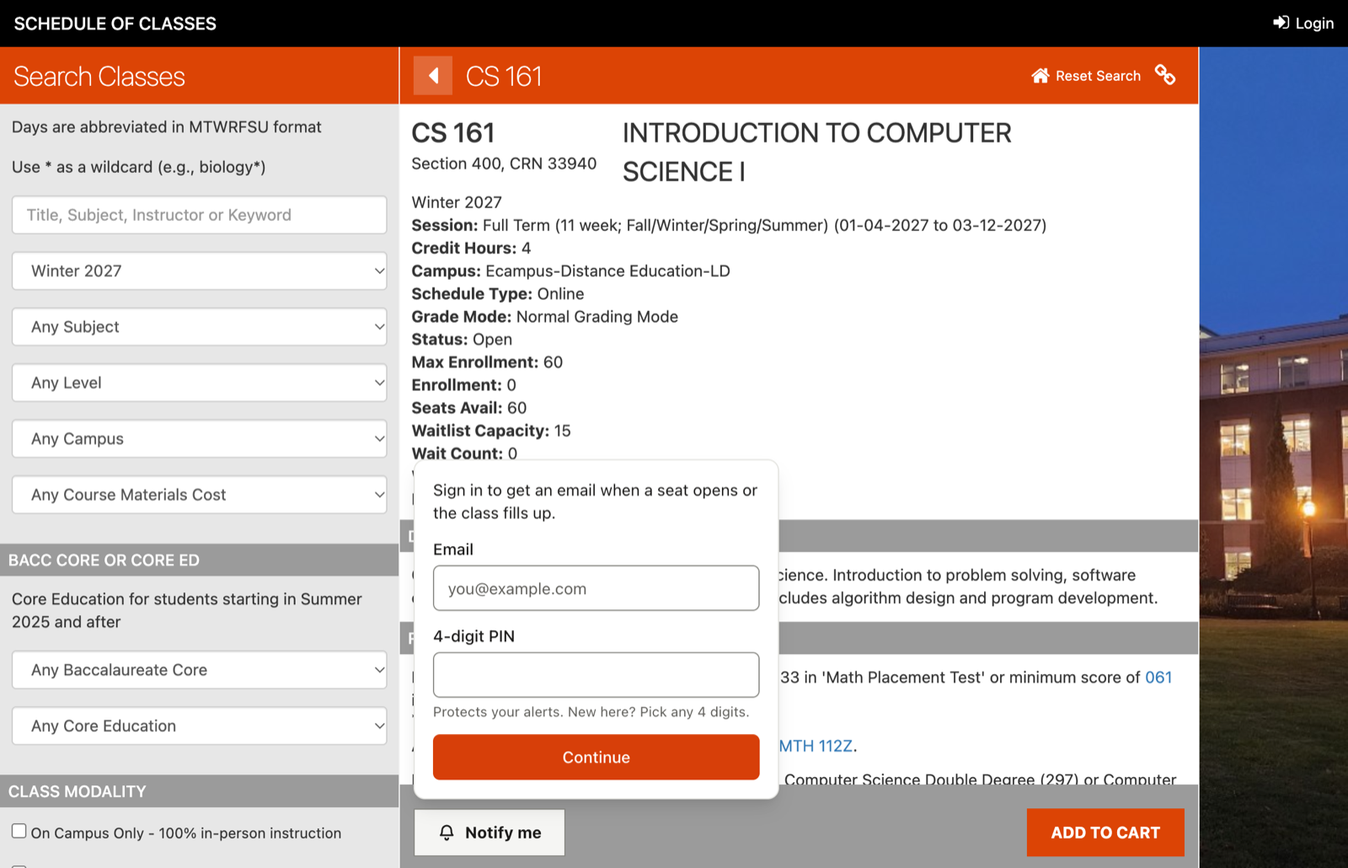
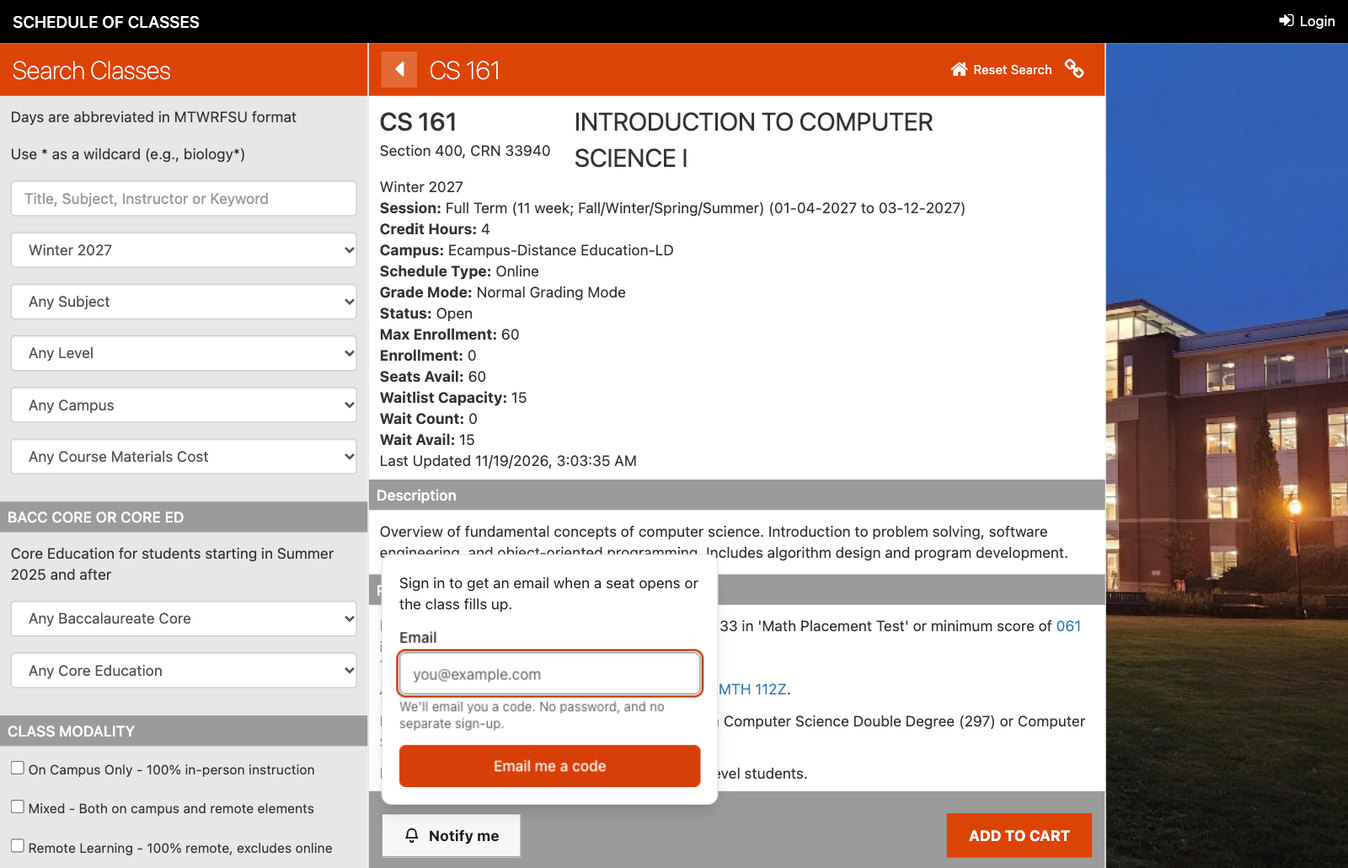
README and privacy policy for the new server and sign-in
README: the extension now talks to apps/server (the old backend is named
once, as what this replaced); sign-in by emailed code; what storage holds
now and what happens to an install updated in place; how to build and try
the extension against a local server, including Chrome's Local Network
Access prompt on the class page; the project map, the Effect notes and
"Adding a server call" brought up to date. "Each term" is gone: the
server decides which terms take alerts.

Privacy policy: what the browser and the server store now (no PIN; codes
and tokens only as hashes), Cloudflare as the host and email sender, what
the server logs, what the daily job removes, and "Delete my account".

The popup and class-page sign-in screenshots show the new extension.

Changed region(s): [[0.0, 0.0, 1.0, 1.0]]

diff --git a/README.md b/README.md
@@ -8,9 +8,11 @@ On [classes.oregonstate.edu](https://classes.oregonstate.edu), open a class and 
 | --- | --- |
 | <img src="docs/screenshots/class-page-watching.png" alt="A class panel with the Watching button and a Stop alerts link" width="560"> | <img src="docs/screenshots/popup.png" alt="The popup listing three watched classes, each with a Stop button" width="260"> |
 
-Alerts cover the classes of **one term at a time** (right now Winter 2027), because that is what the backend watches. On a class of any other term the page shows a short note instead of the button. See [Each term](#each-term).
+"Notify me" is on every section with an ADD TO CART button, in any term. Whether a class takes alerts is up to the server: its term must be open for registration, and the class's add deadline must not have passed (see `apps/server/src/termRule.ts`). When a class does not, the page says why, in the server's words.
 
-We have a backend server running on a private VPS to track course vacancies and alert students. The backend code can be found [here](https://github.com/aj-arts/GetTheDamClass-Backend).
+There are no passwords. To sign in (or sign up, or get back in after forgetting everything), type your email and then the six-digit code the server emails you.
+
+The extension talks to its own server, `apps/server` in this repository: a [Cloudflare Worker](https://developers.cloudflare.com/workers/) with a D1 database, which checks the watched classes every minute and sends the emails. It replaces the earlier backend ([GetTheDamClass-Backend](https://github.com/aj-arts/GetTheDamClass-Backend)), which ran on a private server and signed in with a PIN. The new server is not deployed yet.
 
 ## Adding the Chrome Extension
 
@@ -21,7 +23,7 @@ We have a backend server running on a private VPS to track course vacancies and 
 5. Click on the "Load unpacked" button and select the extracted folder.
 6. The extension should now be added to Chrome and ready to use.
 
-**Updating from an earlier version** (including version 1): extract the new zip over the old folder and press the reload button on the extension's card. That keeps you signed in. If you extract to a new folder instead, Chrome treats it as a different extension: remove the old GetTheDamClass first (otherwise the class page gets two buttons) and sign in again.
+**Updating from an earlier version**: extract the new zip over the old folder and press the reload button on the extension's card. Versions that signed in with a PIN used the old backend, so you are signed out once (your email is filled in; ask for a code), and alerts made with them are not carried over: press "Notify me" on those classes again. If you extract to a new folder instead, Chrome treats it as a different extension: remove the old GetTheDamClass first (otherwise the class page gets two buttons).
 
 We will hopefully have it released on the Chrome Web Store soon!
 
@@ -42,15 +44,16 @@ Run these in `apps/extension/`. `pnpm typecheck`, `pnpm test` and `pnpm build` a
 
 | Command | What it does |
 | --- | --- |
-| `pnpm dev` | Development build into `.output/chrome-mv3-dev` that rebuilds and reloads as you edit. Load that folder once with "Load unpacked". (It asks for extra permissions that WXT needs for reloading; the real build does not.) |
-| `pnpm build` | Production build into `.output/chrome-mv3`. |
+| `pnpm dev` | Development build into `.output/chrome-mv3-dev` that rebuilds and reloads as you edit, talking to the server on your computer (`http://localhost:5173`). Load that folder once with "Load unpacked". (It asks for extra permissions that WXT needs for reloading; the real build does not.) |
+| `pnpm build` | Production build into `.output/chrome-mv3`, talking to the real server (`https://api.getthedamclass.ajinkya.dev`). |
+| `pnpm build:local` | The same build, but talking to the server on your computer, into `.output/chrome-mv3-local-server`. See [Trying the extension against a local server](#trying-the-extension-against-a-local-server). |
 | `pnpm zip` | Builds, then packs the result into a zip in `.output/` for a release or the Chrome Web Store. |
 | `pnpm typecheck` | Checks the TypeScript types. |
 | `pnpm test` | Runs the unit tests. |
 
 ### Running the server
 
-`apps/server` is the Cloudflare Worker that will replace the backend: sign-in by emailed code; starting, listing and stopping alerts; a check every minute that emails each watcher when a seat opens or the class fills again; and a daily cleanup. The extension does not use it yet.
+`apps/server` is the Cloudflare Worker the extension talks to: sign-in by emailed code; starting, listing and stopping alerts; a check every minute that emails each watcher when a seat opens or the class fills again; and a daily cleanup.
 
 ```sh
 cd apps/server
@@ -82,11 +85,24 @@ Each answers `ok` or `exception`; what they log (one line per run, with its coun
 
 To start over, delete `apps/server/.cloudflare/state`; do so too after a change to the tables in `migrations/`. `pnpm typecheck`, `pnpm test` and `pnpm build` work there as they do in the extension; the tests use a SQLite database in Node and never reach the network.
 
+### Trying the extension against a local server
+
+1. Start the server: `pnpm dev` in `apps/server` (see above). Leave that terminal open; the sign-in codes appear in it.
+2. Build the extension for it: `pnpm build:local` in `apps/extension`. (Or run `pnpm dev` there, which also talks to the local server and rebuilds as you edit.)
+3. In Chrome, open `chrome://extensions`, enable "Developer mode", press "Load unpacked" and pick `apps/extension/.output/chrome-mv3-local-server`. Remove or turn off any other GetTheDamClass first, or the class page gets two buttons.
+4. Open a class on [classes.oregonstate.edu](https://classes.oregonstate.edu) in a term that is open for registration, and pick a section with ADD TO CART.
+5. Press **Notify me**, type any email address, press **Email me a code**, and copy the six digits from the server's terminal into the form. The button turns into **Watching**.
+6. Open the extension's popup: the class is listed with its term. Press **Stop**, then **Sign out**.
+
+Chrome treats `http://localhost` as secure, so a local server over plain HTTP is not blocked as mixed content. But since Chrome 142, a public website may only reach your own computer with your permission ([Local Network Access](https://developer.chrome.com/blog/local-network-access)). The popup and the sign-in form are pages of the extension and are not affected. "Notify me" and "Stop alerts" are: the content script's requests count as coming from https://classes.oregonstate.edu. So the first time you press one of them, Chrome asks whether classes.oregonstate.edu may access devices on your local network (or apps on this device); choose **Allow**. If you block it, or the prompt never shows (Chrome in automation does not show it), the button says "Couldn't reach the server", and the page's console shows *"Permission was denied for this request to access the `loopback` address space"*. Allow it again in the site's settings: the icon left of the address bar, or `chrome://settings/content/siteDetails?site=https%3A%2F%2Fclasses.oregonstate.edu`. A normal build is not affected: its server is on the internet.
+
+Each "Notify me" on a class nobody else watches makes the local server ask the university's class system about it four times (the term list, the title, the seats and the dates). That system is shared by every student, so keep such tries few.
+
 ## How it is built
 
 - [WXT](https://wxt.dev) builds the extension and generates `manifest.json` (from `apps/extension/wxt.config.ts` and the files in `apps/extension/entrypoints/`).
 - [React](https://react.dev) and [Tailwind CSS](https://tailwindcss.com) draw the user interface.
-- [Effect](https://effect.website) runs everything that is not drawing: talking to the backend, storage, and error handling.
+- [Effect](https://effect.website) runs everything that is not drawing: talking to the server, storage, and error handling. The API between the two is defined once, with Effect's `HttpApi`, in `packages/shared`.
 - [Vitest](https://vitest.dev) runs the tests. They sit next to the file they test (`Api.ts` → `Api.test.ts`).
 
 ## Project map
@@ -96,7 +112,8 @@ apps/extension/           The browser extension.
   entrypoints/            What the browser loads. WXT turns each folder into part of the extension.
     popup/                The window that opens from the toolbar icon.
       App.tsx             Picks the screen: signed out, or signed in with the list.
-      ClassList.tsx       The watched classes, each with its "Stop" button.
+      ClassList.tsx       The watched classes, each with its term and its "Stop" button.
+      DeleteAccount.tsx   "Delete my account", and the question it asks first.
     content/              The script added to classes.oregonstate.edu.
       index.tsx           Puts a control into every class-details panel and keeps it there.
       detailsPanel.ts     Everything we know about the page's HTML. START HERE when the
@@ -108,15 +125,16 @@ apps/extension/           The browser extension.
     Button.tsx            A button with variants and a loading state.
     Message.tsx           An inline info, success or error message.
     TextField.tsx         A text input with its label.
-    SignInForm.tsx        Email + PIN form that signs in (or signs up).
+    SignInForm.tsx        Signing in (or up), in two steps: the email, then the emailed code.
     cx.ts                 Tiny helper to join CSS class names.
   lib/                    Everything that is not user interface.
-    domain.ts             The data types (Credentials, Crn, Subscription) and every error.
-    term.ts               The one term alerts work for. Changed every term.
-    Api.ts                Service: the calls to the backend.
-    AccountStore.ts       Service: the saved email and PIN and the list of watched classes,
-                          in the browser's extension storage.
-    workflows.ts          What a user can do: signIn, signOut, subscribe, unsubscribe, listSubscriptions.
+    domain.ts             Which class an alert is for (ClassId), and the errors only the extension has.
+    termName.ts           A term's code in words: "202702" is "Winter 2027".
+    Api.ts                Service: the calls to the server, on the typed client from packages/shared.
+    AccountStore.ts       Service: the saved email and sign-in token, a code that was asked for,
+                          and the watched classes, in the browser's extension storage.
+    workflows.ts          What a user can do: requestCode, signIn, changeEmail, signOut,
+                          deleteAccount, subscribe, unsubscribe, listAlerts.
     runtime.ts            Wires the real services together so effects can run.
     react.ts              Hooks that let React components run effects.
     errorMessage.ts       The sentence shown to the user for each error.
@@ -124,7 +142,7 @@ apps/extension/           The browser extension.
   public/icons/           The extension's icons, copied into the build as they are.
   wxt.config.ts           Extension name, permissions, icons; build plugins.
   vitest.config.ts        Test setup (with vitest.setup.ts).
-apps/server/              The Cloudflare Worker that will replace the backend.
+apps/server/              The Cloudflare Worker the extension talks to.
   src/index.ts            The Worker: plugs the server and the jobs into Cloudflare's bindings.
   src/server.ts           The whole server as one layer: API handlers, unsubscribe page, CORS.
   src/signIn.ts           Sign-in codes, and the sign-in endpoints.
@@ -156,25 +174,32 @@ There is no background script. The extension only needs the `storage` permission
 
 ### How the parts stay in step
 
-The popup, the button on the class page and the sign-in frame all read and write the browser's extension storage (`apps/extension/lib/AccountStore.ts`): who is signed in, and which CRNs they are watching. Each of them follows it as it changes, so stopping an alert in the popup turns "Watching" back into "Notify me" on an open class page, and signing in anywhere signs you in everywhere.
+The popup, the button on the class page and the sign-in frame all read and write the browser's extension storage (`apps/extension/lib/AccountStore.ts`): who is signed in, which classes they are watching, and how far a sign-in has got. Each of them follows it as it changes, so stopping an alert in the popup turns "Watching" back into "Notify me" on an open class page, signing in anywhere signs you in everywhere, and a code asked for in the popup can be typed in the form on the class page.
 
-What is stored, unencrypted, until you sign out (which removes all of it):
+What is stored, unencrypted, until you sign out or delete your account (which removes all of it):
 
 | Key | Value | |
 | --- | --- | --- |
-| `email` | `"student@oregonstate.edu"` | The same two keys version 1 used, so its users stay signed in when the extension is updated in place. |
-| `pin` | `"1234"` | |
+| `email` | `"student@oregonstate.edu"` | Who is signed in. Without a `token`, the address the sign-in form starts with. |
+| `token` | `"kq3V..."` | The sign-in token the server gave this browser, sent with every request as `Authorization: Bearer`. |
+| `codeRequest` | `{ "email": "...", "sentAt": 1795075200000 }` | A code was emailed to this address at this time (milliseconds since 1970), and not used yet. |
 | `watch:202702:student@oregonstate.edu:33940` | `true` | One key per watched class, named after the term, the account and the CRN. |
 
-A watched class is a key of its own so that adding one is a single write and removing one a single delete. Nothing reads a list, changes it and writes it back, so two changes made at the same moment (in the popup and on a class page, say) cannot undo each other. And the account is part of the name so that an answer from the server that arrives after someone else signed in is saved for the account that asked, where the other never sees it. The term is part of the name so that last term's saved classes stop counting as watched when `apps/extension/lib/term.ts` moves on (the next term can reuse a CRN for a different class). That only covers what this browser saved: the server's list carries no term, so the old alerts must also be cleared in the backend (see [Each term](#each-term)).
+`codeRequest` is what lets the form survive being closed: Chrome closes the popup as soon as you click into your inbox to read the code, and when it opens again the form is at the code step for the address you typed. It counts for 15 minutes, as long as the code works, and is removed when you sign in or press "Use a different email".
 
-One known gap: if you sign out while a "Notify me" request is still waiting for the server, its answer is saved after the sign-out, leaving one `watch:` key (email and CRN, no PIN) until the next sign-out.
+A watched class is a key of its own so that adding one is a single write and removing one a single delete. Nothing reads a list, changes it and writes it back, so two changes made at the same moment (in the popup and on a class page, say) cannot undo each other. The account is part of the name so that an answer from the server that arrives after someone else signed in is saved for the account that asked, where the other never sees it. And the term is part of it because the university reuses CRNs from term to term: the same CRN in two terms is two classes, everywhere in the extension.
 
-The page trusts that saved list and does not ask the server when a class is opened. If an alert was stopped elsewhere (the Unsubscribe link in an email, another browser), the page still says "Watching" until the popup is next opened, which fetches the real list, or until "Stop alerts" is pressed, which works either way.
+When the server answers a request with `NotSignedIn` (the token was ended: the account was deleted from another browser, or the token went unused for a year), the extension removes `token` and keeps `email`, so every part of it shows the sign-in form with the address filled in.
+
+Versions that signed in with a PIN also stored a `pin` key, and `watch:` keys for alerts on the old backend. The first time any part of the extension starts after an update in place, it removes both (see `AccountStore.layer`); the email stays.
+
+One known gap: if you sign out while a "Notify me" request is still waiting for the server, its answer is saved after the sign-out, leaving one `watch:` key (term, email and CRN) until the next sign-out.
+
+The page trusts that saved list and does not ask the server when a class is opened. If an alert ended elsewhere (stopped with the link in an email or in another browser, or removed by the server's daily cleanup after the class's add deadline), the page still says "Watching" until the popup is next opened, which fetches the real list, or until "Stop alerts" is pressed, which works either way.
 
 ### Why the sign-in form on the class page is in a frame
 
-Whatever a content script draws into a web page, that page's own scripts can read, including every key typed into a field. So the email and PIN are never typed into the university's page. The popover that "Notify me" opens contains an `<iframe>` showing `signin.html`, a page of the extension itself (`apps/extension/entrypoints/signin/`). The class page cannot look inside it. `apps/extension/wxt.config.ts` lists that one page under `web_accessible_resources`, for classes.oregonstate.edu only, which is what allows it to be framed there.
+Whatever a content script draws into a web page, that page's own scripts can read, including every key typed into a field. So the email and the sign-in code are never typed into the university's page. The popover that "Notify me" opens contains an `<iframe>` showing `signin.html`, a page of the extension itself (`apps/extension/entrypoints/signin/`). The class page cannot look inside it. `apps/extension/wxt.config.ts` lists that one page under `web_accessible_resources`, for classes.oregonstate.edu only, which is what allows it to be framed there.
 
 The frame tells the page around it three things, with `window.postMessage` (`apps/extension/entrypoints/signin/messages.ts`): "close me" (Escape was pressed), "I am this tall now", and "signed in". None of them carries what was typed. "Signed in" is what makes the button carry on and set up the alert, so only the form that was actually submitted does that: signing in through the toolbar popup while a popover is open on a class page subscribes to nothing.
 
@@ -183,20 +208,6 @@ The frame tells the page around it three things, with `window.postMessage` (`app
 The button is only put on the page when the script can read three things from a class's panel: the CRN, the term, and the bar that holds ADD TO CART. If one of them cannot be found the script shows nothing, rather than a button that might sign a student up for the wrong class. So after a change to the university's markup the button simply disappears.
 
 `apps/extension/entrypoints/content/detailsPanel.ts` holds every selector, with a drawing of the page's structure at the top. Its tests run against `apps/extension/entrypoints/content/fixtures/*.html`. To refresh a fixture: open the section on classes.oregonstate.edu, and in the browser's developer tools run `copy(document.querySelector("main.panels").outerHTML)`. Paste that over the fixture and trim it the way the comment at the top of the file describes. Then run `pnpm test` and fix `detailsPanel.ts` until it passes.
-
-## Each term
-
-The backend looks up classes in one hard-coded term (`'term': '202702'` in its `app/loop.py`, three places), and its API cannot tell terms apart: it is sent a bare CRN, and the same number can be a different class in another term. The extension therefore offers alerts only for sections whose term it can read from the page and which is exactly the one named in `apps/extension/lib/term.ts`. When registration for the next term is about to open:
-
-1. In `apps/extension/lib/term.ts`, change `code` (the `srcdb` value the class search uses, for example `202703`) and `label` ("Spring 2027").
-2. Bump `version` in `apps/extension/package.json` and publish the extension (see [Releasing](#releasing)).
-3. Once the new version is out, change the term in the backend and deploy it.
-
-Do step 3 soon after step 2. The two can never switch at the same instant (browsers pick up a new version of an extension over hours or days), and while they disagree a press is looked up in the wrong term. Releasing the extension first, during the quiet days before registration opens, keeps that to a minimum.
-
-People who installed from a release zip ("Load unpacked") do not get updates automatically: until they download the new release, the page keeps telling them alerts cover the old term only. Say so in the release notes.
-
-Alerts set up for the old term stay in the backend's database, and its API does not say which term an alert belongs to. Clearing them out is a required part of step 3, not a tidy-up: until they are gone, their CRNs are looked up in the new term, and opening the popup lists them and marks them as watched, so a new class that reuses one of those numbers shows "Watching".
 
 ## Releasing
 
@@ -215,33 +226,34 @@ Inside `Effect.gen(function*() { ... })`, read `yield*` the way you read `await`
 
 **Services** are the parts that touch the outside world. There are two:
 
-- `Api` (`apps/extension/lib/Api.ts`) sends requests to the backend.
-- `AccountStore` (`apps/extension/lib/AccountStore.ts`) reads and writes the saved email and PIN and the list of watched classes.
+- `Api` (`apps/extension/lib/Api.ts`) sends requests to the server. It is a thin layer over the typed client Effect builds from the API in `packages/shared/src/Api.ts`: that client knows every path, payload and reply, and checks each reply against the schemas.
+- `AccountStore` (`apps/extension/lib/AccountStore.ts`) reads and writes the saved email and token, the code that was asked for, and the list of watched classes.
 
 Each is a class that names the service and lists its functions. Code asks for one with `const api = yield* Api`.
 
-**Layers** are the implementations of a service. `Api.layer` is the real one, built on `fetch`. Tests swap in others: `Api.layerWithFetch(fakeFetch)` to test the Api itself, or `Layer.mock(Api, { ... })` to give other code a fake backend.
+**Layers** are the implementations of a service. `Api.layer` is the real one, built on `fetch`. Tests swap in others: `Api.layerWithFetch(fakeFetch)` to test the Api itself, or `Layer.mock(Api, { ... })` to give other code a fake server.
 
 **The runtime** (`apps/extension/lib/runtime.ts`) is where the real layers are put together, once. Anything that wants to run an effect uses it.
 
-**Errors** are all defined in `apps/extension/lib/domain.ts`. Each has a `_tag`, its name as a string (`"WrongPin"`, `"ClassNotFound"`, `"NetworkError"`, ...), so handling an error is a `switch` on `error._tag`. `apps/extension/lib/errorMessage.ts` holds the sentence shown for each one.
+**Errors** each have a `_tag`, their name as a string (`"TermNotOpen"`, `"NotSignedIn"`, `"NetworkError"`, ...), so handling an error is a `switch` on `error._tag`. The server's refusals are defined once for both sides in `packages/shared/src/domain.ts`, and each carries a `message` written for the student, which the extension shows as it is. The extension's own errors (no answer from the server, an answer the API does not describe, storage failing, a bug) are in `apps/extension/lib/domain.ts`, and `apps/extension/lib/errorMessage.ts` has their sentences.
 
-**Workflows** (`apps/extension/lib/workflows.ts`) combine the services into the things a user does. `subscribe(crn)`, for example, reads the saved credentials (failing with `NotSignedIn` if there are none), calls the backend with them, and saves the class as watched by that account. The user interface calls workflows, never the services directly.
+**Workflows** (`apps/extension/lib/workflows.ts`) combine the services into the things a user does. `subscribe(classId)`, for example, reads the saved token (failing with `NotSignedIn` if there is none), sends the class's term and CRN with it, and saves the class as watched by that account. The user interface calls workflows, never the services directly.
 
 **Components run effects through three hooks** in `apps/extension/lib/react.ts`. They turn an effect into a plain object with a `status` to switch on:
 
 ```tsx
 import { Button } from "@/components/Button"
 import { Message } from "@/components/Message"
+import type { ClassId } from "@/lib/domain"
 import { errorMessage } from "@/lib/errorMessage"
 import { useAction } from "@/lib/react"
 import { subscribe } from "@/lib/workflows"
 
-function NotifyButton({ crn }: { crn: string }) {
+function NotifyButton({ classId }: { classId: ClassId }) {
   const { state, run } = useAction(subscribe)
   return (
     <>
-      <Button variant="primary" loading={state.status === "loading"} onClick={() => run(crn)}>
+      <Button variant="primary" loading={state.status === "loading"} onClick={() => run(classId)}>
         Notify me
       </Button>
       <Message tone="success">{state.status === "success" ? "You're on the list." : null}</Message>
@@ -253,16 +265,18 @@ function NotifyButton({ crn }: { crn: string }) {
 
 - `useAction(workflow)` gives a `run` function for clicks and form submits.
 - `useQuery(() => effect, deps)` runs an effect when the component appears, for loading data.
-- `useAccount()` says who is signed in and which classes they are watching, and updates when that changes anywhere in the extension.
+- `useAccount()` says who is signed in and which classes they are watching (or, signed out, the email and code request the sign-in form starts from), and updates when that changes anywhere in the extension.
 
-**In the tests** you will meet a few more Effect names. `it.effect(...)` runs a test written as an effect. `Layer.mock(Api, { ... })` is a fake backend. In `apps/extension/lib/workflows.test.ts`, `Effect.forkChild` starts a workflow without waiting for it (it returns a `Fiber`, a handle to the running work, which `Fiber.join` waits for), and a `Latch` is a gate the fake server waits at until the test opens it. Together they let a test do something while a request is still unanswered.
+**In the tests** you will meet a few more Effect names. `it.effect(...)` runs a test written as an effect; its clock starts at 0 and only moves when the test says (`TestClock.adjust`, `TestClock.setTime`). `Layer.mock(Api, { ... })` is a fake server. In `apps/extension/lib/workflows.test.ts`, `Effect.forkChild` starts a workflow without waiting for it (it returns a `Fiber`, a handle to the running work, which `Fiber.join` waits for), and a `Latch` is a gate the fake server waits at until the test opens it. Together they let a test do something while a request is still unanswered.
 
-### Adding a backend call
+### Adding a server call
 
-1. Add the function to the `Api` service in `apps/extension/lib/Api.ts`, mapping each HTTP status to a result or an error from `apps/extension/lib/domain.ts`. (Every call already gives up after 30 seconds.)
-2. Cover those statuses in `apps/extension/lib/Api.test.ts`.
-3. Add a workflow in `apps/extension/lib/workflows.ts` if it needs the saved credentials.
-4. Call it from a component with `useAction` or `useQuery`.
+1. Add the endpoint to `packages/shared/src/Api.ts`, with any new refusal in `packages/shared/src/domain.ts`, and implement it in `apps/server`.
+2. Add a function to the `Api` service in `apps/extension/lib/Api.ts` that calls the typed client, with `settle` as its last step like the others: it adds the 30-second time limit and turns failures that are not refusals into `NetworkError` or `ServerError`.
+3. Cover it in `apps/extension/lib/Api.test.ts`: the request it sends, each refusal, and a reply of the wrong shape.
+4. Add a workflow in `apps/extension/lib/workflows.ts`. If it sends the saved token, wrap the call in `withToken` there, so that a `NotSignedIn` answer signs the browser out.
+5. If the call has a new refusal, add it to `AppError` in `apps/extension/lib/domain.ts` and to the list in `apps/extension/lib/errorMessage.ts` that shows the server's sentence.
+6. Call it from a component with `useAction` or `useQuery`.
 
 ---
 &copy; 2024 Nothing Suspicious (Colin Pannikkat, Ajinkya Gokule, David Gesl, Sarvesh Thiruppathi Ahila)

diff --git a/privacypolicy.md b/privacypolicy.md
@@ -1,6 +1,6 @@
 # **Privacy Policy for GetTheDamClass Chrome Extension**
 
-_Last Updated: 18th November 2026_
+_Last Updated: 19th November 2026_
 
 Welcome to **GetTheDamClass**! Your privacy is important to us, and this Privacy Policy explains how we collect, use, and protect your information when you use our Chrome extension.
 
@@ -9,27 +9,30 @@ Welcome to **GetTheDamClass**! Your privacy is important to us, and this Privacy
 The extension collects the following information:
 
 1. **User-Provided Information**:
-   - **Email Address**: Collected during signup to facilitate email notifications.
-   - **PIN**: A 4-digit code chosen by the user for authentication purposes.
-   
-2. **Automatically Collected Information**:
-   - **Subscribed Class CRN Numbers**: Collected when users subscribe to notifications for specific classes.
-   - **HTTP Logs**: Minimal logs for troubleshooting and performance monitoring.
+   - **Email Address**: Typed when you sign in. It is where your sign-in codes and class alerts are sent, and it identifies your account.
+   - **Sign-in Codes**: To sign in, you type the six-digit code we email you. There is no password or PIN.
 
-The extension does not collect browsing activity, form data, or any additional information not explicitly required for its functionality.
+2. **Automatically Collected Information**:
+   - **Watched Classes**: The term and CRN (class number) of each class you ask alerts for, and the class's title, which the server looks up from Oregon State's class search.
+   - **Sign-in Tokens**: When you sign in, the server gives your browser a random token that it sends with every request, and records when each token was last used.
+   - **Server Logs**: Minimal logs for troubleshooting (see "Data Storage and Security" below).
+
+The extension does not collect browsing activity, form data, or any additional information not explicitly required for its functionality. On classes.oregonstate.edu it only reads the term and CRN of the class you have open, to know which class "Notify me" is for.
 
 ## **How We Use the Information**
 
 The information collected is used solely for providing the core functionality of the extension:
-- To notify users via email about class vacancies for their subscribed courses.
-- To authenticate users and ensure secure access to their subscribed class list.
+- To email you a code when you sign in.
+- To notify you by email when a seat opens in a class you watch, or when it fills up again.
+- To show you, in the extension, the classes you are watching, and to let you stop alerts.
 
 We do not use your information for advertising or other unrelated purposes.
 
 ## **Data Sharing and Disclosure**
 
 We do not sell, rent, or share your information with third parties except in the following cases:
-- **Service Providers**: Trusted entities who assist in managing backend operations, such as servers for email notifications, under strict confidentiality agreements.
+- **Service Providers**: The server runs on Cloudflare (Cloudflare Workers, with its data in a Cloudflare D1 database), and sign-in codes and alert emails are sent through Cloudflare's email service. Cloudflare therefore processes your email address and the data described here on our behalf.
+- **Oregon State University**: To check for open seats, the server asks Oregon State's public class search about the classes being watched, by term and CRN. Nothing about you is sent with these requests.
 - **Legal Compliance**: When required to comply with applicable laws, regulations, or legal proceedings.
 
 ## **Data Storage and Security**
@@ -39,20 +42,32 @@ We do not sell, rent, or share your information with third parties except in the
    - No sensitive data is transmitted in plaintext.
 
 2. **Data Storage**:
-   - Email addresses and PINs are securely stored in a database.
-   - The PIN is hashed and salted prior to being stored.
-   - Subscription data is stored to facilitate the notification service.
-   - In your browser, the extension keeps your email address, your 4-digit PIN and the list of class CRN numbers you are watching in the browser's local extension storage, unencrypted, so that it can make requests on your behalf. Signing out in the extension removes them from the browser. One exception: if a request to start an alert is still in progress at the moment you sign out, your email address and that class's CRN (not your PIN) can be saved again when it finishes; they are removed the next time you sign out.
+   - The server stores your email address and when your account was created, and your alerts: for each, the term, the CRN, the class title, when you started it, and a random key used in the "stop these alerts" link in your emails.
+   - Sign-in codes and sign-in tokens are stored only as hashes, so a copy of the database cannot be used to sign in. For each code, the server also keeps the address it was sent to, when it was sent, and how many times someone tried to use it.
+   - In your browser, the extension keeps your email address, your sign-in token, and which classes (term and CRN) you are watching, in the browser's local extension storage, unencrypted, so that it can make requests on your behalf. While you are signing in, it also remembers the address a code was sent to and when, for the 15 minutes the code works. Signing out in the extension removes all of this from the browser. One exception: if a request to start an alert is still in progress at the moment you sign out, your email address and that class's term and CRN can be saved again when it finishes; they are removed the next time you sign out.
+   - Earlier versions of the extension kept a 4-digit PIN in your browser. The current version deletes it from your browser the first time it runs after the update.
 
-3. **Access Controls**:
+3. **Server Logs**:
+   - For each request, the server logs the method, the path (for example `/alerts/202702/33940`), and the result. These lines do not contain your email address, sign-in code, or token.
+   - When something goes wrong, the server logs what happened, such as a class it could not check or an email that could not be sent. When Cloudflare's email service refuses a message, the reason it gives is logged as it is, and we cannot rule out that such a reason names the address the email was for.
+
+4. **Automatic Removal**: Once a day, the server removes:
+   - Sign-in tokens that have not been used for a year, which signs that browser out.
+   - Alerts whose class's add deadline has passed (or, for a class without dates, whose term has closed in Oregon State's class search). You are not emailed about this; the class just leaves your list.
+   - Sign-in codes that have expired (a code works for 15 minutes).
+
+   Your account and email address stay until you delete your account.
+
+5. **Access Controls**:
    - Access to user data is restricted to authorized personnel only, under strict confidentiality.
 
 ## **User Rights**
 
 You have the following rights concerning your data:
-- **Access**: View the email address you are signed in with and your subscribed classes via the extension interface. The email address and PIN cannot be changed in the extension.
-- **Unsubscribe**: Stop notifications for any class directly from the extension or by contacting us.
-- **Account Deletion**: Request deletion of your account and all associated data by emailing getthedamclass@gmail.com.
+- **Access**: View the email address you are signed in with and the classes you are watching in the extension's popup.
+- **Stop Alerts**: Stop alerts for any class from the extension (on the class page or in the popup), or with the link in any email about that class.
+- **Sign Out**: Signing out ends your browser's sign-in token on the server and removes everything the extension saved in your browser. Your account and its alerts stay, and the alerts keep running.
+- **Account Deletion**: Use "Delete my account" in the extension's popup. It deletes your account, all its alerts and every sign-in token on the server, and removes what the extension saved in your browser. You can also ask us to delete it by emailing getthedamclass@gmail.com.
 
 ## **Cookies and Tracking**
 
